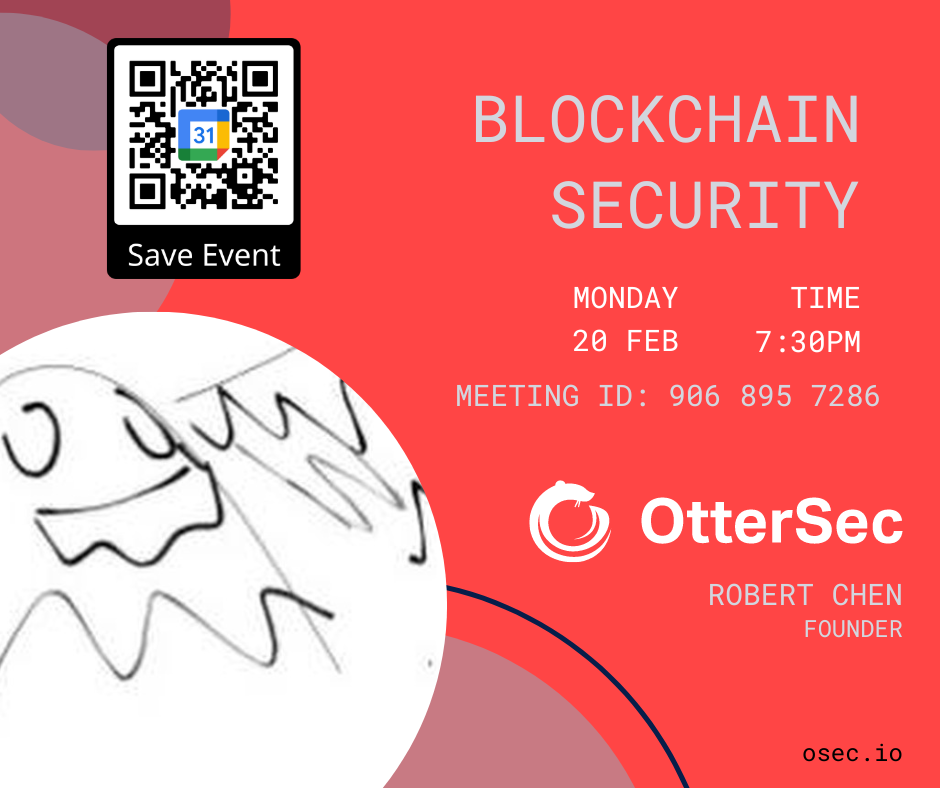
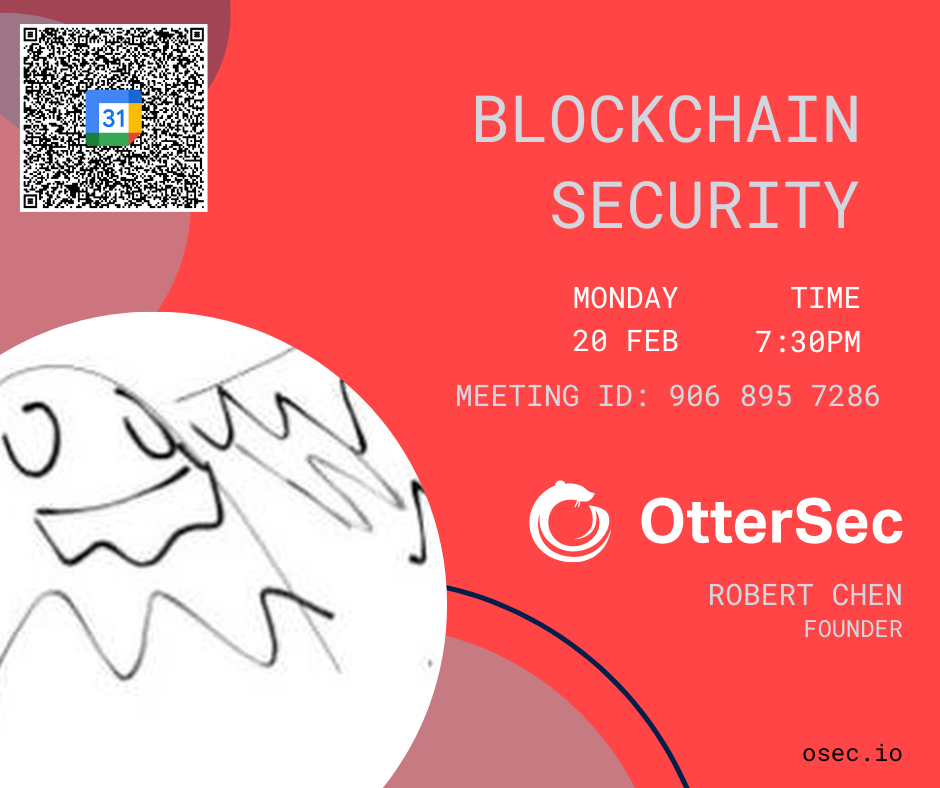
updated QR code and responsivness of event page

Changed region(s): [[0.0, 0.0305, 0.3394, 0.3655]]

diff --git a/web-app/pages/events/ottersec/index.tsx b/web-app/pages/events/ottersec/index.tsx
@@ -31,11 +31,11 @@ const Ottersec: NextPage = () => {
                 <h2 className='text-purple-700 text-l md:text-3xl'>
                     Hosted By: Ohio State
                 </h2>
-              <main className="flex flex-col w-full flex-1 items-center justify-center px-20 text-center my-10 ">
+              <main className="flex flex-col w-full flex-1 items-center justify-center md:px-20 text-center my-10 ">
                 
                 <div className="flex w-full flex-row items-center justify-center">
-                    <div className='img_card_div'>
-                     <Image className="img_card rounded-lg" src="/events/ottersec.png" alt="ottersec" width={400} height={400}/>
+                    <div className='image_container md:w-4/6 lg:w-3/6 w-full border shadow-xl'>
+                     <Image className="image" src="/events/ottersec.png" alt="ottersec" layout="fill" />
                    </div>
                 </div>
                
@@ -55,7 +55,7 @@ const Ottersec: NextPage = () => {
 
              <div className='grid w-full grid-cols-1 gap-10 md:grid-cols-2 my-10'>
                 <CountDown date="2/20/2023 19:30:00"/>
-                <a href="https://osu.zoom.us/j/9068957286?pwd=bkhtRlNxL3E3SnZCTU1oSFNHcHJNQT09" className='font-bold text-xl text-center btn btn-primary h-auto'>
+                <a href="https://osu.zoom.us/j/9068957286?pwd=bkhtRlNxL3E3SnZCTU1oSFNHcHJNQT09" className='font-bold text-xl text-center btn btn-primary h-auto border shadow-xl'>
                     Enter Event
                 </a>
              </div>

diff --git a/web-app/styles/globals.css b/web-app/styles/globals.css
@@ -8,29 +8,13 @@
 }
 
 
-.img_card_div{
-    box-sizing:border-box;
-    display:inline-block;
-    overflow:hidden;
-    width:initial;
-    height:initial;
-    background:none;
-    opacity:1;
-    border:0;
-    margin:0;
-    padding:0;
-    position:relative;
-    max-width:100%
+.image-container {
+    width: 100%;
 }
-
-.img_card{
-    display:block;
-    max-width:100%;
-    width:initial;
-    height:initial;
-    background:none;
-    opacity:1;
-    border:0;
-    margin:0;
-    padding:0
+  
+.image {
+    object-fit: contain;
+    width: 100% !important;
+    position: relative !important;
+    height: unset !important;
 }

diff --git a/web-app/components/countdown-timer.tsx b/web-app/components/countdown-timer.tsx
@@ -1,5 +1,4 @@
 import { useEffect, useState, memo } from "react";
-import styles from '../styles/Timer.module.css'
 
 function CountDownTimer({date}: {date: string}) {
   const [eventTime, seteventTime] = useState(false);
@@ -38,7 +37,7 @@ function CountDownTimer({date}: {date: string}) {
   }, []);
 
   return (
-    <div className={styles.container}>
+    <div className="">
       
 
       {eventTime ? (
